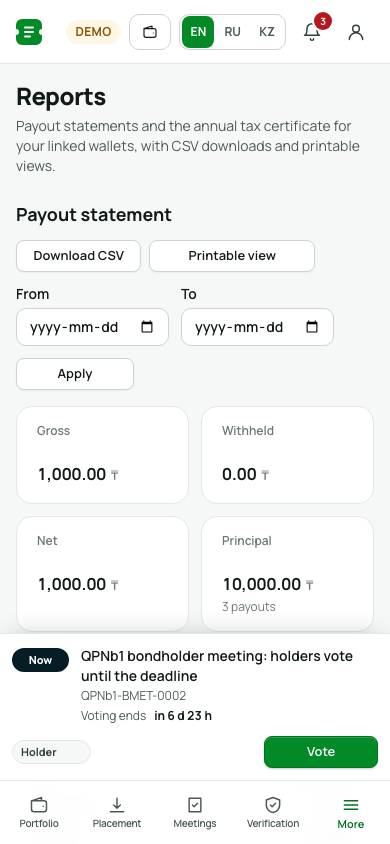
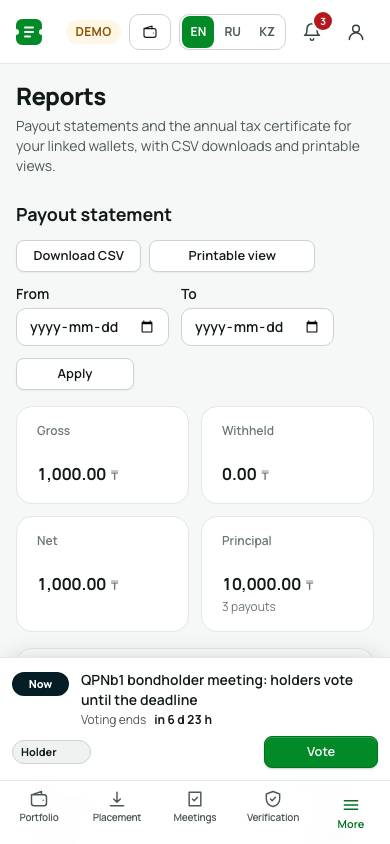
wip(91547): resume previous attempt

diff --git a/apps/web/src/components/ui/NowBar.tsx b/apps/web/src/components/ui/NowBar.tsx
@@ -54,7 +54,9 @@ export function NowBar({
         aria-label={t("now.label")}
         data-nowbar={dock}
         className={cx(
-          "z-30 flex flex-col gap-3 border p-3 sm:p-4 md:flex-row md:items-center md:gap-5 md:rounded-card",
+          // Two rows below md (pill+title, then actors+action), one row from 768 px: a single row on phones
+          // squeezed the title into a ~90 px column and the docked bar grew past the body padding (preflight #16).
+          "z-30 flex flex-wrap items-center gap-x-3 gap-y-2 border p-3 sm:p-4 md:flex-nowrap md:gap-5 md:rounded-card",
           // phones: docked bar, full width, raised above the content
           dock !== "none" &&
             "max-md:fixed max-md:inset-x-0 max-md:border-x-0 max-md:border-b-0 max-md:pb-[max(0.75rem,env(safe-area-inset-bottom))] max-md:shadow-dock",
@@ -65,30 +67,36 @@ export function NowBar({
           className,
         )}
       >
-        <div className="flex min-w-0 flex-1 items-start gap-3">
+        {/* phones: this block takes the whole first row, so the title keeps the full bar width */}
+        <div className="flex min-w-0 flex-1 items-start gap-3 max-md:basis-full">
           <span
             className={cx(
               "mt-0.5 inline-flex h-6 shrink-0 items-center rounded-full px-2 text-micro font-extrabold",
               PILL[tone],
             )}
           >
-            <StableLabel>{tone === "done" ? t("now.done") : t("now.label")}</StableLabel>
+            <StableLabel>
+              {tone === "done" ? t("now.done") : t("now.label")}
+            </StableLabel>
           </span>
           {/* flex-1: the title's box is the space left, not its text, so it keeps its size in every language */}
           <div className="min-w-0 flex-1">
-            <p className="text-sm font-semibold text-n900 sm:text-base">
+            <p className="text-sm font-semibold text-n900 max-md:line-clamp-2 sm:text-base">
               {title}
             </p>
             {(detail || clock) && (
-              // phones: detail and clock on their own lines, so the docked bar keeps one height in every language
-              <div className="mt-0.5 flex flex-wrap items-center gap-x-3 gap-y-1 text-xs text-n600 max-sm:flex-col max-sm:items-start sm:text-sm">
-                {detail && <span className="min-w-0">{detail}</span>}
+              // phones: only the clock stays (inline, one row) — a wrapping detail made the dock taller than the body padding
+              <div className="mt-0.5 flex flex-wrap items-center gap-x-3 gap-y-1 text-xs text-n600 md:text-sm">
+                {detail && (
+                  <span className="min-w-0 max-md:hidden">{detail}</span>
+                )}
                 {clock}
               </div>
             )}
           </div>
         </div>
-        <div className="flex flex-wrap items-center gap-2 max-md:justify-between">
+        {/* phones: actors and action share the full-width second row */}
+        <div className="flex shrink-0 flex-wrap items-center justify-end gap-2 max-md:w-full max-md:justify-between">
           {actors.length > 0 && (
             <span className="flex flex-wrap items-center gap-1.5">
               <span className="text-xs text-n500 max-sm:sr-only">

diff --git a/apps/web/src/lib/ui/button.ts b/apps/web/src/lib/ui/button.ts
@@ -10,13 +10,20 @@ export type ButtonVariant =
 export type ButtonSize = "sm" | "md" | "lg";
 
 // Motion v3 (§5.8): press = quick scale-down, hover = 1 px lift with a deeper shadow (primary); 150 ms ease-out.
+// `whitespace-nowrap` lives in the !wrap branch, not BASE: a wrapping button swaps it below (cx cannot override it).
 const BASE =
-  "inline-flex items-center justify-center gap-2 whitespace-nowrap font-semibold border transition-[background,border-color,box-shadow,transform,color,filter] duration-150 ease-[cubic-bezier(.2,.8,.2,1)] active:scale-[.97] active:duration-75 disabled:cursor-not-allowed disabled:bg-n100 disabled:text-n400 disabled:border-n200 disabled:shadow-none disabled:scale-100 disabled:translate-y-0";
+  "inline-flex items-center justify-center gap-2 font-semibold border transition-[background,border-color,box-shadow,transform,color,filter] duration-150 ease-[cubic-bezier(.2,.8,.2,1)] active:scale-[.97] active:duration-75 disabled:cursor-not-allowed disabled:bg-n100 disabled:text-n400 disabled:border-n200 disabled:shadow-none disabled:scale-100 disabled:translate-y-0";
+
+const HEIGHT: Record<ButtonSize, string> = {
+  sm: "h-8",
+  md: "h-10",
+  lg: "h-12",
+};
 
 const SIZE: Record<ButtonSize, string> = {
-  sm: "h-8 px-3 text-[13px] rounded-sm gap-1.5 [&_svg]:size-3.5",
-  md: "h-10 px-4 text-sm rounded-btn [&_svg]:size-4",
-  lg: "h-12 px-5 text-[15px] rounded-[12px] [&_svg]:size-4",
+  sm: "px-3 text-[13px] rounded-sm gap-1.5 [&_svg]:size-3.5",
+  md: "px-4 text-sm rounded-btn [&_svg]:size-4",
+  lg: "px-5 text-[15px] rounded-[12px] [&_svg]:size-4",
 };
 
 const VARIANT: Record<ButtonVariant, string> = {
@@ -38,10 +45,22 @@ export function buttonClasses({
   variant = "primary",
   size = "md",
   block = false,
+  wrap = false,
 }: {
   variant?: ButtonVariant;
   size?: ButtonSize;
   block?: boolean;
+  /** Multi-line label that wraps inside its container instead of forcing one line (e.g. long kk trigger, preflight #3). */
+  wrap?: boolean;
 }): string {
-  return cx(BASE, SIZE[size], VARIANT[variant], block && "w-full");
+  return cx(
+    BASE,
+    // wrap swaps the fixed height AND the nowrap for h-auto + normal wrapping (both, never side by side).
+    wrap
+      ? "h-auto max-w-full py-2 text-left leading-snug whitespace-normal"
+      : cx(HEIGHT[size], "whitespace-nowrap"),
+    SIZE[size],
+    VARIANT[variant],
+    block && "w-full",
+  );
 }

diff --git a/apps/web/src/components/ui/ActorChip.tsx b/apps/web/src/components/ui/ActorChip.tsx
@@ -3,7 +3,8 @@ import { StableLabel } from "@/components/i18n/StableLabel";
 import { cx } from "@/lib/ui/cx";
 
 /** Who may perform a step. `anyone` = permissionless (any signer; the program enforces every rule). */
-export type Actor = "anyone" | "issuer" | "registrar" | "holder" | "payingAgent";
+export type Actor =
+  "anyone" | "issuer" | "registrar" | "holder" | "payingAgent";
 
 /** One role pill. "Anyone" is the distinctive one: solid outline in brand green with an open-hand meaning "push". */
 export function ActorChip({
@@ -21,9 +22,10 @@ export function ActorChip({
       title={anyone ? t("anyoneHint") : undefined}
       className={cx(
         "inline-flex h-6 shrink-0 items-center gap-1 rounded-full px-2 text-micro font-bold whitespace-nowrap",
+        // n300/n100/n800: on the near-white NowBar the old n200/n50/n700 pill read pale, as if disabled (preflight #29)
         anyone
           ? "border border-g600 bg-n0 text-g700"
-          : "border border-n200 bg-n50 text-n700",
+          : "border border-n300 bg-n100 text-n800",
       )}
     >
       {anyone && (
@@ -40,7 +42,9 @@ export function ActorChip({
           <path d="M8 5v6M5 8h6" />
         </svg>
       )}
-      <StableLabel align="start">{anyone && long ? t("anyonePush") : t(actor)}</StableLabel>
+      <StableLabel align="start">
+        {anyone && long ? t("anyonePush") : t(actor)}
+      </StableLabel>
     </span>
   );
 }

diff --git a/apps/web/src/components/ui/Badge.tsx b/apps/web/src/components/ui/Badge.tsx
@@ -9,11 +9,16 @@ export function Badge({
   tone,
   children,
   dot = true,
+  wrap = false,
+  className,
 }: {
   status?: string;
   tone?: string;
   children?: ReactNode;
   dot?: boolean;
+  /** Let a long label wrap inside its container instead of forcing one line; the base pill classes are swapped, not appended (cx does no tailwind-merge). */
+  wrap?: boolean;
+  className?: string;
 }) {
   const t = badgeTone(tone ?? status ?? "neutral");
   // Bare statuses are translated here once (status.* in messages), so no page can forget to.
@@ -21,9 +26,14 @@ export function Badge({
   return (
     <span
       className={cx(
-        "inline-flex h-6 shrink-0 items-center gap-1.5 rounded-full px-2.5 text-xs font-bold whitespace-nowrap",
+        "inline-flex items-center gap-1.5 rounded-full px-2.5 text-xs font-bold",
+        // wrap swaps the one-line pill for a multi-line chip (both, never side by side — preflight #27).
+        wrap
+          ? "min-h-6 max-w-full py-0.5 text-left leading-snug whitespace-normal"
+          : "h-6 shrink-0 whitespace-nowrap",
         t.bg,
         t.fg,
+        className,
       )}
     >
       {dot && <span aria-hidden className="size-1.5 rounded-full bg-current" />}

diff --git a/apps/web/src/components/ui/Tabs.tsx b/apps/web/src/components/ui/Tabs.tsx
@@ -20,12 +20,14 @@ export function Tabs({ items, defaultValue }: TabsProps) {
   const pill = useId(); // one sliding pill per Tabs instance
   return (
     <TabsPrimitive.Root value={value} onValueChange={setValue}>
-      <TabsPrimitive.List className="inline-flex rounded-btn bg-n100 p-1">
+      {/* Long locale labels: nowrap keeps every trigger one line; below sm the list snap-scrolls with a right-edge
+          fade, so a half-cut last tab reads as scrollable instead of clipped (preflight #13) */}
+      <TabsPrimitive.List className="inline-flex max-w-full gap-1 overflow-x-auto rounded-btn bg-n100 p-1 snap-x scroll-px-1 max-sm:[mask-image:linear-gradient(to_right,black_85%,transparent)]">
         {items.map((t) => (
           <TabsPrimitive.Trigger
             key={t.value}
             value={t.value}
-            className="relative h-8 rounded-sm px-3 text-sm font-semibold text-n600 transition-colors hover:text-n900 data-[state=active]:text-n900"
+            className="relative h-8 shrink-0 snap-start rounded-sm px-3 text-sm font-semibold whitespace-nowrap text-n600 transition-colors hover:text-n900 data-[state=active]:text-n900"
           >
             {t.value === value && (
               <m.span

diff --git a/apps/web/src/components/ui/Button.tsx b/apps/web/src/components/ui/Button.tsx
@@ -27,6 +27,8 @@ export type ButtonProps = ButtonHTMLAttributes<HTMLButtonElement> & {
   iconRight?: ReactNode;
   /** Render the single child (e.g. a Next <Link>) with button styles. */
   asChild?: boolean;
+  /** Let a long label wrap inside its container instead of forcing one line (buttonClasses swaps nowrap + height). */
+  wrap?: boolean;
 };
 
 export const Button = forwardRef<HTMLButtonElement, ButtonProps>(
@@ -39,6 +41,7 @@ export const Button = forwardRef<HTMLButtonElement, ButtonProps>(
       iconLeft,
       iconRight,
       asChild = false,
+      wrap = false,
       className,
       children,
       disabled,
@@ -46,7 +49,10 @@ export const Button = forwardRef<HTMLButtonElement, ButtonProps>(
     },
     ref,
   ) {
-    const classes = cx(buttonClasses({ variant, size, block }), className);
+    const classes = cx(
+      buttonClasses({ variant, size, block, wrap }),
+      className,
+    );
     // Labels keep the width of their longer EN/RU version: switching language never moves a button (§5.8).
     if (asChild) {
       const child = isValidElement<{ children?: ReactNode }>(children)

diff --git a/apps/web/src/components/shell/StepNowBar.tsx b/apps/web/src/components/shell/StepNowBar.tsx
@@ -33,11 +33,8 @@ export function StepNowBar({
   const t = useTranslations("kit.now");
   const tstep = useTranslations("steps.do");
   const next = nextStep(action, now, supply, openTrades);
-  const actor = next.step
-    ? STEP_ACTOR[next.step]
-    : action.status === "VotingOpen"
-      ? "holder"
-      : undefined;
+  // No chip while no step can be pushed: a waiting vote used to show "Holder" on the issuer's own bar (preflight #29)
+  const actor = next.step ? STEP_ACTOR[next.step] : undefined;
   const s = action.status;
   const [key, values]: [string, Record<string, string>] = next.step
     ? ["next", { step: tstep(next.step), ticker }]
@@ -78,7 +75,11 @@ export function StepNowBar({
       detail={detail}
       clock={
         next.gate ? (
-          <CountdownClock to={next.gate.at} label={t(`gate.${next.gate.kind}`)} daySecs={daySecs} />
+          <CountdownClock
+            to={next.gate.at}
+            label={t(`gate.${next.gate.kind}`)}
+            daySecs={daySecs}
+          />
         ) : undefined
       }
       actors={actor ? [actor] : []}

diff --git a/apps/web/src/app/(cabinet)/investor/reports/page.tsx b/apps/web/src/app/(cabinet)/investor/reports/page.tsx
@@ -90,7 +90,9 @@ export default async function InvestorReportsPage({
       key: "units",
       header: tc("units"),
       align: "right",
-      hideBelow: "md",
+      // units and action drop below 2xl so the kk table fits 1440 px: `tx` (essential) stays the
+      // last column and its copy icon keeps its padding (preflight #15, review round 2; both at 2xl)
+      hideBelow: "2xl",
       render: (p) => <span className="num">{p.units}</span>,
     },
     {
@@ -196,7 +198,7 @@ export default async function InvestorReportsPage({
     {
       key: "action",
       header: tc("action"),
-      hideBelow: "lg",
+      hideBelow: "2xl",
       render: (p) => <Address value={p.action} />,
     },
   ];

diff --git a/apps/web/src/lib/ui/table.ts b/apps/web/src/lib/ui/table.ts
@@ -1,5 +1,5 @@
-export type Bp = "sm" | "md" | "lg";
-const ORDER: Record<Bp, number> = { sm: 0, md: 1, lg: 2 };
+export type Bp = "sm" | "md" | "lg" | "2xl";
+const ORDER: Record<Bp, number> = { sm: 0, md: 1, lg: 2, "2xl": 3 };
 
 /** Columns visible at breakpoint `bp`: a column with `hideBelow: "md"` is hidden at "sm" and shown from "md" up. */
 export function visibleColumns<T extends { hideBelow?: Bp }>(
@@ -14,6 +14,7 @@ const SHOWN_FROM: Record<Bp, string> = {
   sm: "hidden sm:table-cell",
   md: "hidden md:table-cell",
   lg: "hidden lg:table-cell",
+  "2xl": "hidden 2xl:table-cell",
 };
 
 /** Tailwind classes that show a cell only from its `hideBelow` breakpoint up (table cells only). */

diff --git a/apps/web/src/app/(cabinet)/registrar/_components/Pipeline.tsx b/apps/web/src/app/(cabinet)/registrar/_components/Pipeline.tsx
@@ -45,7 +45,10 @@ function ActionCard({
       <div className="num truncate text-xs text-n500">{action.corpId}</div>
       {/* badge and date on their own lines: the card keeps one height in EN and RU */}
       <div className="mt-2">
-        <Badge tone="info">{kindLabel}</Badge>
+        {/* wrap: kk kind labels ("Облигация ұстаушыларының…") exceed a 1/6-wide column — the chip wraps inside the card (preflight #27) */}
+        <Badge tone="info" wrap>
+          {kindLabel}
+        </Badge>
       </div>
       <div className="num mt-1 text-xs whitespace-nowrap text-n500">
         {formatDate(action.recordAt, locale)}

diff --git a/apps/web/src/lib/ui/amount.ts b/apps/web/src/lib/ui/amount.ts
@@ -10,7 +10,8 @@ export function formatAmount(
   const neg = n < 0n;
   const abs = neg ? -n : n;
   const base = 10n ** BigInt(decimals);
-  const sep = locale === "en" ? "," : " "; // kk-KZ groups like ru-RU (NBSP thousands, comma decimal)
+  // NBSP (not the narrow U+202F): it must stay visibly wide, matching ru-RU Intl grouping (preflight #18).
+  const sep = locale === "en" ? "," : "\u00a0";
   const dot = locale === "en" ? "." : ",";
   const whole = (abs / base).toString().replace(/\B(?=(\d{3})+(?!\d))/g, sep);
   // Trailing zeros past the cents are noise (USDC: 1,000.000000 → 1,000.00); significant digits stay.

diff --git a/apps/web/src/lib/kyc.ts b/apps/web/src/lib/kyc.ts
@@ -51,10 +51,11 @@ export const formatBytes = (n: number) =>
       ? `${(n / 1024).toFixed(0)} KB`
       : `${(n / 1024 / 1024).toFixed(1)} MB`;
 
-/** 1500 bps → "15.00%" / "15,00 %" (locale-aware, like bpsToPercent). */
+/** 1500 bps → "15.00%" / "15,00 %" (locale-aware, like bpsToPercent; kk shares ru-RU money format). */
 export const pct = (bps: number, locale: string) =>
-  new Intl.NumberFormat(locale, {
+  new Intl.NumberFormat(locale === "en" ? "en" : "ru-RU", {
     style: "percent",
     minimumFractionDigits: 2,
     maximumFractionDigits: 2,
+    useGrouping: "always",
   }).format(bps / 10000);
